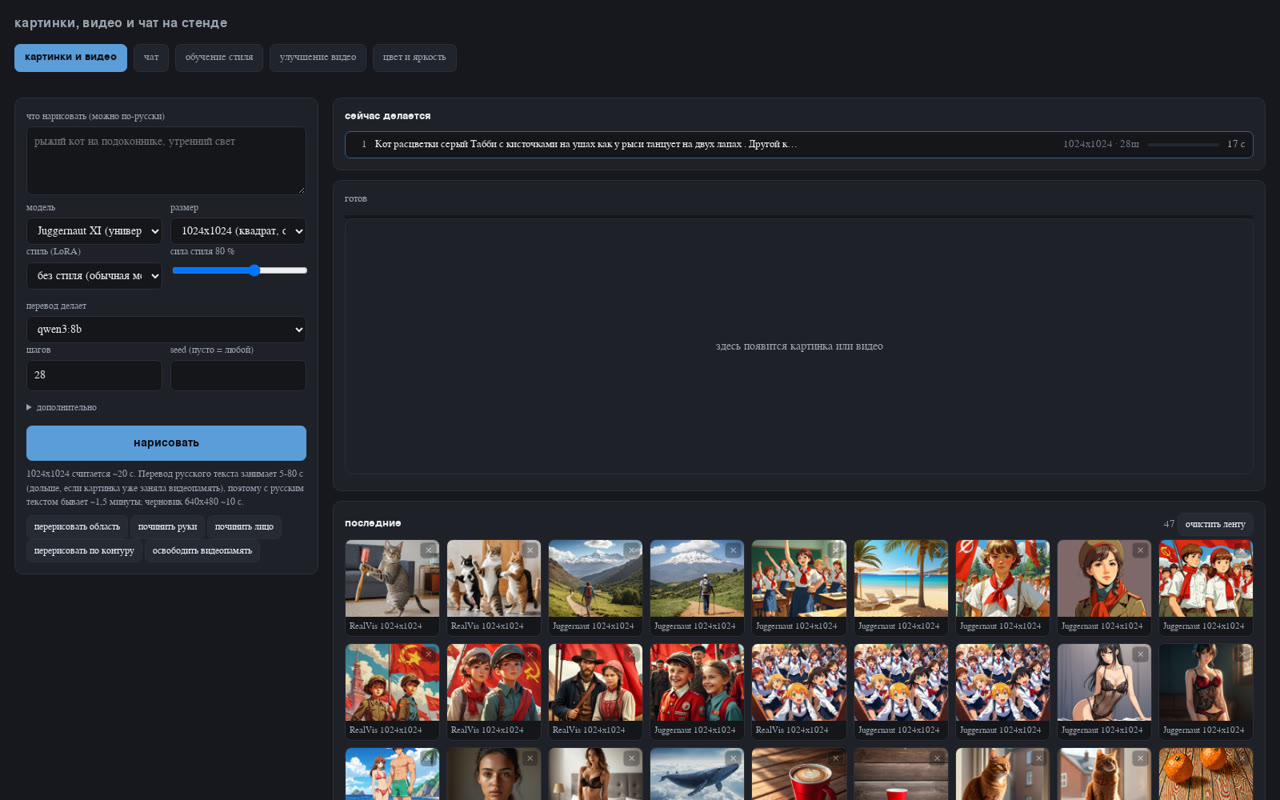
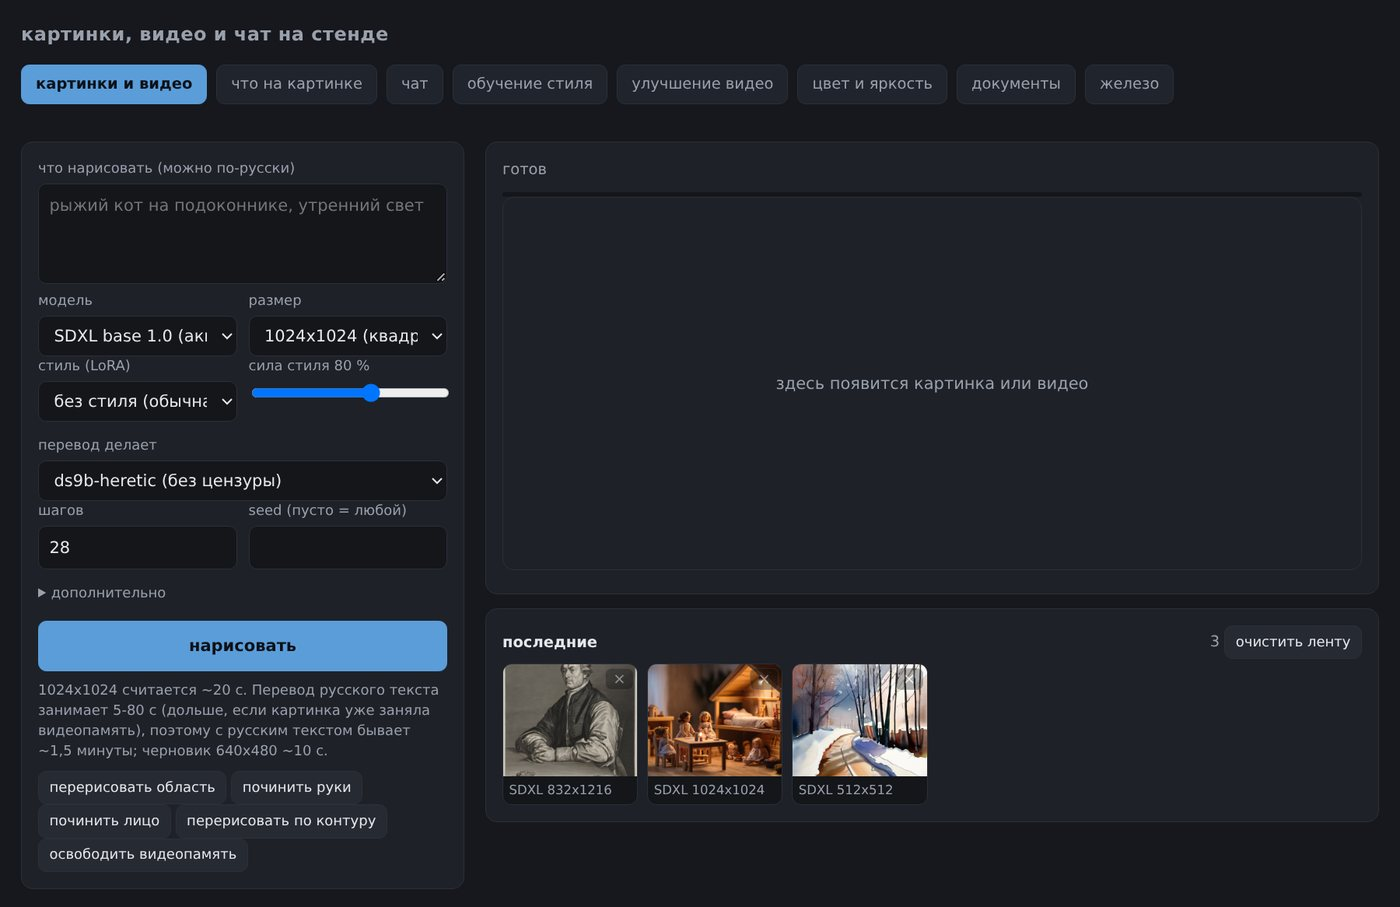
скриншоты: свежая панель и все восемь вкладок
Старый снимок отстал от кода: с тех пор появились вкладки «что на картинке»,
видео-модели (LTXV 2B, Wan 2.2 5B, в том числе первый+последний кадр),
перерисовка по контуру/глубине/позе, ремонт кистей со скелетом, ватты и
температура SATA на «железе».

docs/screenshot.jpg — вкладка рисования с лентой последних;
docs/tabs.jpg — контактный лист всех вкладок;
docs/hardware.jpg — «железо» крупно: температуры, ватты, место на дисках.

Снято на самой машине headless-Chromium'ом: страницу отдавал живой stand-ui,
данные — его /api/*, ничего не дорисовывалось. В ленте только тестовые кадры.

README: в таблицу вкладок добавлены «что на картинке» и видео-модели, в API —
/api/redraw и поля length/fps/start_image/end_image.

MIT.

diff --git a/README.ru.md b/README.ru.md
@@ -17,6 +17,17 @@
 Настоящий скриншот с той машины, для которой панель писалась: русский промпт в поле,
 перевод и модель справа, лента последних генераций снизу (в ленте только тестовые).
 
+Все восемь вкладок на одном листе — [docs/tabs.jpg](docs/tabs.jpg):
+
+![все вкладки панели](docs/tabs.jpg)
+
+Снимки сделаны на самой машине: страницу отдавал тот же `stand-ui`, что работает на
+`127.0.0.1:8288`, данные — его же JSON-ответы. Ничего не дорисовывалось.
+
+Вкладка «железо» крупно — температура, ватты, место на обоих дисках:
+
+![вкладка «железо»](docs/hardware.jpg)
+
 ## Что нужно на машине
 
 - Linux, Python 3.10+ (проверено на 3.12 и 3.14);
@@ -83,7 +94,8 @@ ssh -N -L 8288:127.0.0.1:8288 <пользователь>@<машина>
 
 | вкладка | что делает |
 |---|---|
-| картинки и видео | текст по-русски → перевод → ComfyUI; модель, размер, шаги, seed, LoRA; перерисовка области; «починить руки/лицо», «починить по контуру»; лента последних |
+| картинки и видео | текст по-русски → перевод → ComfyUI; модель, размер, шаги, seed, LoRA; видео-модели (LTXV 2B, Wan 2.2 5B, в том числе «первый и последний кадр») рисуют клип из 2–5 с; перерисовка области; «починить руки/лицо», «починить по контуру»; лента последних |
+| что на картинке | загрузить фото → модель со зрением опишет кадр: по-русски словами, по-английски — готовым промптом для SDXL; ответ одной кнопкой переносится в поле рисования |
 | чат | разговор с локальной моделью; «нарисуй …» уходит в ComfyUI и возвращается картинкой; можно приложить картинку и спросить, что на ней; если модель начинает повторять один абзац, панель сама обрывает ответ |
 | обучение стиля | фото + имя стиля → LoRA во внешнем тренере, прогресс и «остановить» *(внешний скрипт, не входит)* |
 | улучшение видео | нейросети на CUDA, обработка по кускам *(внешний образ, не входит)* |
@@ -102,9 +114,11 @@ ssh -N -L 8288:127.0.0.1:8288 <пользователь>@<машина>
 ```
 GET  /api/config     модели, размеры, режимы, подсказки
 GET  /api/history    лента последних
-POST /api/generate   {prompt, model, size, steps, seed, lora, lora_w}
+POST /api/generate   {prompt, model, size, steps, seed, lora, lora_w,
+                     length, fps, start_image, end_image}   # видео-модели
 POST /api/inpaint    перерисовать область
-POST /api/detail     починить руки/лицо/контур
+POST /api/redraw     перерисовать кадр целиком по контуру/глубине/позе/линиям/плитке
+POST /api/detail     починить руки/лицо (детектор кистей/лиц + ControlNet)
 POST /api/chat       {model, messages, think, draw}
 POST /api/train/*    обучение стиля
 POST /api/video/*    улучшение видео

diff --git a/README.md b/README.md
@@ -17,6 +17,17 @@ page, JSON in between. The optional `psutil` is needed only for the hardware tab
 A real screenshot from the box the panel was written for: Russian prompt in the field,
 translation and model on the right, the recent strip below (test generations only).
 
+All eight tabs on one sheet — [docs/tabs.jpg](docs/tabs.jpg):
+
+![all panel tabs](docs/tabs.jpg)
+
+The shots were taken on that box: the page came from the very `stand-ui` running on
+`127.0.0.1:8288`, the numbers from its own JSON. Nothing was drawn in by hand.
+
+The hardware tab up close — temperatures, watts, space on both disks:
+
+![hardware tab](docs/hardware.jpg)
+
 ## What you need
 
 - Linux, Python 3.10+ (tested on 3.12 and 3.14);
@@ -83,7 +94,8 @@ Everything machine-specific lives in `panel.env` next to the code (template:
 
 | tab | what it does |
 |---|---|
-| images and video | Russian text → translation → ComfyUI; model, size, steps, seed, LoRA; region repaint; "fix hands/face", "fix by outline"; recent strip |
+| images and video | Russian text → translation → ComfyUI; model, size, steps, seed, LoRA; video models (LTXV 2B, Wan 2.2 5B, including first+last frame) render a 2–5 s clip; region repaint; "fix hands/face", "fix by outline"; recent strip |
+| what is in the picture | drop a photo → a vision model describes the frame: in Russian as words, in English as a ready SDXL prompt; one button sends it to the drawing field |
 | chat | talk to a local model; "draw …" goes to ComfyUI and comes back as a picture; attach an image and ask what is in it. If the model starts repeating one paragraph, the panel cuts the answer off itself |
 | style training | photos + a style name → LoRA in an external trainer, with progress and stop *(external script, not included)* |
 | video upscaling | CUDA networks, processing chunk by chunk *(external image, not included)* |
@@ -102,9 +114,11 @@ The panel is an HTTP server; the browser gets one page, data travels as JSON.
 ```
 GET  /api/config     models, sizes, modes, hints
 GET  /api/history    recent strip
-POST /api/generate   {prompt, model, size, steps, seed, lora, lora_w}
+POST /api/generate   {prompt, model, size, steps, seed, lora, lora_w,
+                     length, fps, start_image, end_image}   # video models
 POST /api/inpaint    repaint a region
-POST /api/detail     fix hands/face/outline
+POST /api/redraw     repaint the whole frame by outline/depth/pose/lines/tile
+POST /api/detail     fix hands/face (hand/face detectors + ControlNet)
 POST /api/chat       {model, messages, think, draw}
 POST /api/train/*    style training
 POST /api/video/*    video upscaling
